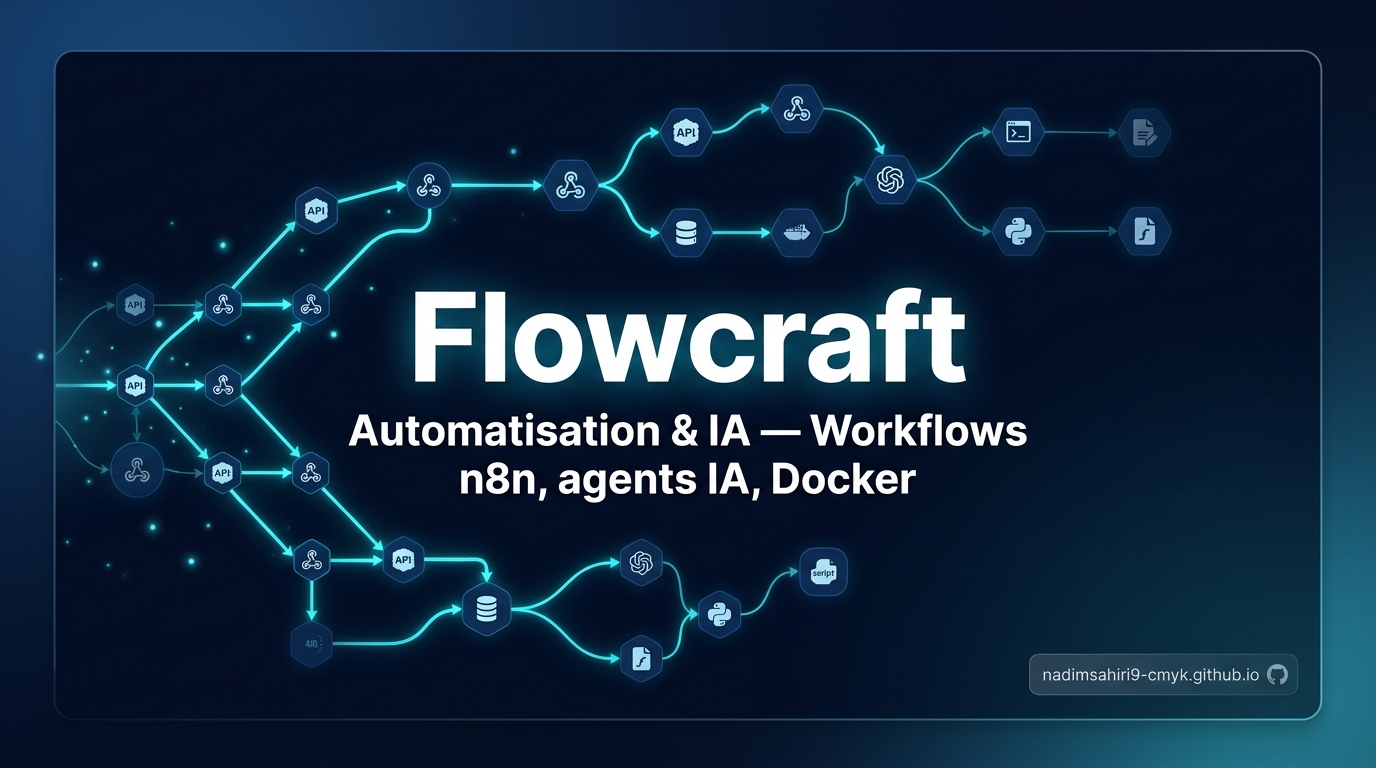
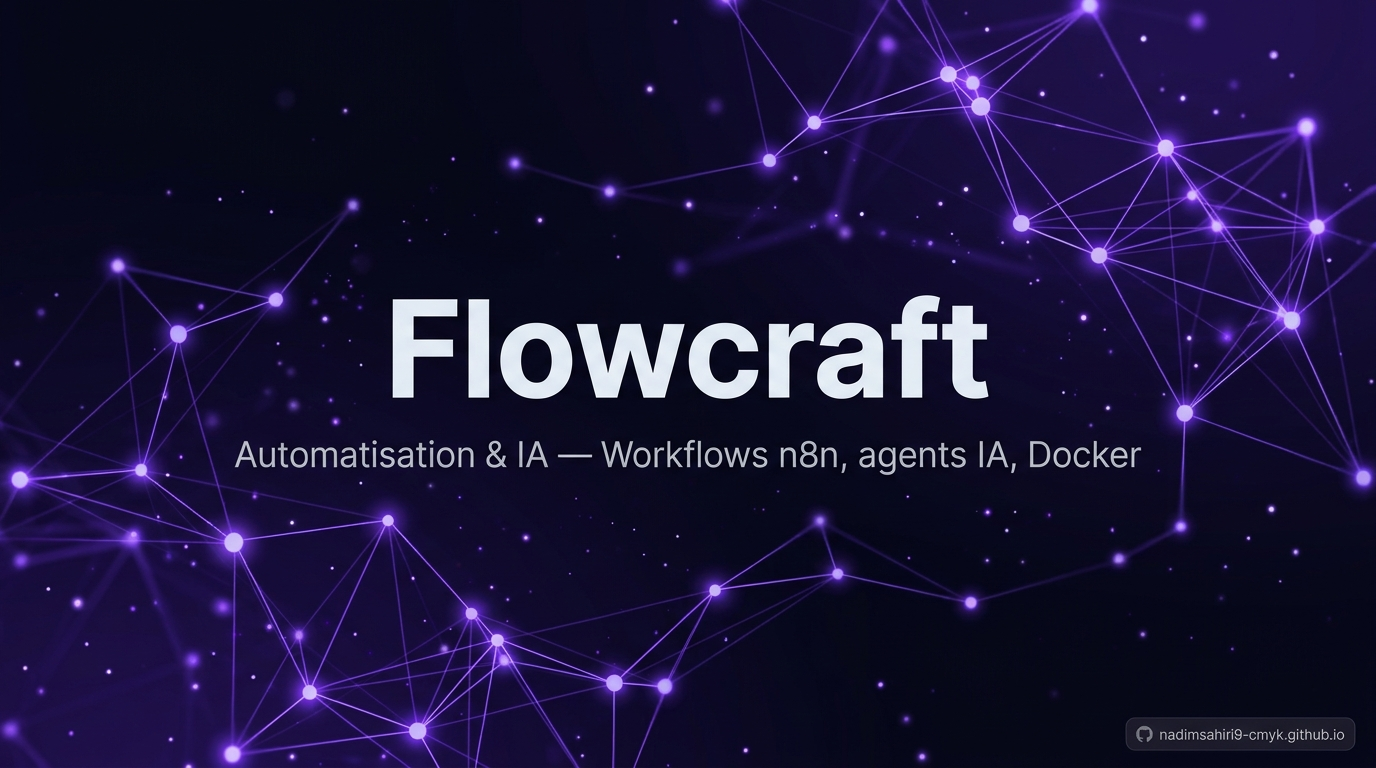
identité visuelle violet : palette + og:image (charte 10/11)

diff --git a/index.html b/index.html
@@ -7,7 +7,7 @@
 <meta name="description" content="Flowcraft — studio freelance d'automatisation : workflows n8n, agents IA, scripts Python/Bash, Docker/DevOps. Packs n8n prêts à l'emploi et produits numériques vendus sur Gumroad.">
 <meta name="keywords" content="automatisation, n8n, workflows, agents IA, Docker, DevOps, freelance, Python, Gumroad, packs n8n">
 <meta name="author" content="Nadim Sahiri — Flowcraft">
-<meta name="theme-color" content="#0d1117">
+<meta name="theme-color" content="#0e0a1a">
 <meta property="og:title" content="Flowcraft — Automatisation & IA">
 <meta property="og:description" content="Workflows n8n, agents IA, scripts Python/Bash, Docker/DevOps. Packs n8n prêts à l'emploi vendus sur Gumroad.">
 <meta property="og:type" content="website">
@@ -25,14 +25,14 @@
 <meta property="og:locale" content="fr_FR">
 <style>
   :root {
-    --bg: #0d1117;
-    --bg-card: #161b22;
-    --bg-card-hover: #1c2330;
-    --border: #2a3038;
+    --bg: #0e0a1a;
+    --bg-card: #171226;
+    --bg-card-hover: #1d1730;
+    --border: #2c2440;
     --text: #e6edf3;
     --text-muted: #8b949e;
-    --accent: #58a6ff;
-    --accent-soft: rgba(88, 166, 255, 0.12);
+    --accent: #a78bfa;
+    --accent-soft: rgba(167, 139, 250, 0.12);
   }
 
   * { margin: 0; padding: 0; box-sizing: border-box; }
@@ -74,7 +74,7 @@
     position: sticky;
     top: 0;
     z-index: 10;
-    background: rgba(13, 17, 23, 0.85);
+    background: rgba(14, 10, 26, 0.85);
     backdrop-filter: blur(8px);
     border-bottom: 1px solid var(--border);
   }
@@ -124,8 +124,8 @@
     font-size: 0.95rem;
     transition: background 0.2s, border-color 0.2s;
   }
-  .btn-primary { background: var(--accent); color: #0d1117; }
-  .btn-primary:hover { background: #79b8ff; text-decoration: none; }
+  .btn-primary { background: var(--accent); color: #0e0a1a; }
+  .btn-primary:hover { background: #c4b5fd; text-decoration: none; }
   .btn-ghost { border: 1px solid var(--border); color: var(--text); }
   .btn-ghost:hover { border-color: var(--text-muted); text-decoration: none; }
 
@@ -264,7 +264,7 @@
 
 <nav>
   <div class="container">
-    <div class="logo"><svg width="28" height="28" viewBox="0 0 24 24" fill="none" style="vertical-align:middle;margin-right:8px"><path d="M3 17 Q8 5 14 12 Q18 16 21 7" stroke="#58a6ff" stroke-width="2.2" fill="none" stroke-linecap="round"/><circle cx="14" cy="12" r="2.5" fill="#58a6ff"/><path d="M2 19 L22 19" stroke="#30363d" stroke-width="1.5" stroke-linecap="round"/></svg>Flowcraft</div>
+    <div class="logo"><svg width="28" height="28" viewBox="0 0 24 24" fill="none" style="vertical-align:middle;margin-right:8px"><path d="M3 17 Q8 5 14 12 Q18 16 21 7" stroke="#a78bfa" stroke-width="2.2" fill="none" stroke-linecap="round"/><circle cx="14" cy="12" r="2.5" fill="#a78bfa"/><path d="M2 19 L22 19" stroke="#3a3050" stroke-width="1.5" stroke-linecap="round"/></svg>Flowcraft</div>
     <div class="links">
       <a href="#projets">Projets</a>
       <a href="#methode">Méthode</a>

diff --git a/DEPLOIEMENT.md b/DEPLOIEMENT.md
@@ -1,0 +1,46 @@
+# Déploiement portfolio — 2 variantes prêtes (bascule < 15 min)
+
+> Préparé le 10/11 par builder. **Aucune publication effectuée** — exécution = main ou Nadim.
+> ⚠ État actuel : `deploy/` EST le repo GitHub Pages `nadimsahiri9-cmyk/nadimsahiri9-cmyk.github.io` (remote configuré).
+> Les modifs portfolio v2 (5 packs + offres packagées) sont dans `index.html` **non commitées** — c'est le push qui publie.
+
+---
+
+## Variante A — GitHub Pages (gratuit, ~5 min)
+
+**Cible** : https://nadimsahiri9-cmyk.github.io/
+
+1. Éditer `index.html` : décommenter le bloc **VARIANTE A** dans le `<head>` (canonical + og:url).
+2. Depuis `sysops/portfolio/deploy/` :
+   ```bash
+   git add index.html && git commit -m "portfolio v2 — boutique 5 packs + offres packagées" && git push origin main
+   ```
+3. **Settings → Pages** du repo : Source = "Deploy from a branch", branche `main`, `/ (root)` — normalement déjà configuré (le site est déjà en ligne).
+4. Vérifier : https://nadimsahiri9-cmyk.github.io/ → 200, section « Offres packagées » visible, 5 packs en boutique.
+5. ⚠ Ne PAS ajouter de fichier `CNAME` à la racine (il basculerait le site sur un domaine custom).
+
+---
+
+## Variante B — domaine pro (~15 min, DNS compris)
+
+**Cible** : ex. `https://nadim.dev/` (à adapter au domaine réellement acheté).
+
+1. **Acheter le domaine** (Nadim, registrar au choix — OVH/Cloudflare/Gandi). Vérifier la dispo AVANT de communiquer l'URL.
+2. **DNS chez le registrar** (propagation : minutes à ~1 h) :
+   - Apex `nadim.dev` → 4 A records : `185.199.108.153`, `185.199.109.153`, `185.199.110.153`, `185.199.111.153`
+   - `www` → CNAME `nadimsahiri9-cmyk.github.io`
+3. Dans `deploy/` : copier `CNAME.example` → `CNAME` (contenu = domaine choisi, une seule ligne, sans https://), décommenter le bloc **VARIANTE B** de `index.html`, puis :
+   ```bash
+   cp CNAME.example CNAME   # éditer si domaine ≠ nadim.dev
+   git add CNAME index.html && git commit -m "domaine custom + portfolio v2" && git push origin main
+   ```
+4. **Settings → Pages** : Custom domain = `nadim.dev` → attendre le check DNS → cocher **Enforce HTTPS** (après la 1re émission de certificat, ~quelques minutes).
+5. Vérifier : https://nadim.dev/ → 200 + HTTPS + section Offres visible. www redirige automatiquement vers l'apex.
+
+---
+
+## Après bascule (2 min)
+
+- `og:image` à ajouter quand les visuels de cover seront prêts.
+- Lien portfolio à mettre à jour dans les profils Malt/Codeur + bio GitHub.
+- Si migration A → B plus tard : ajouter le CNAME + DNS, rien d'autre (l'URL .github.io redirige vers le domaine custom).
